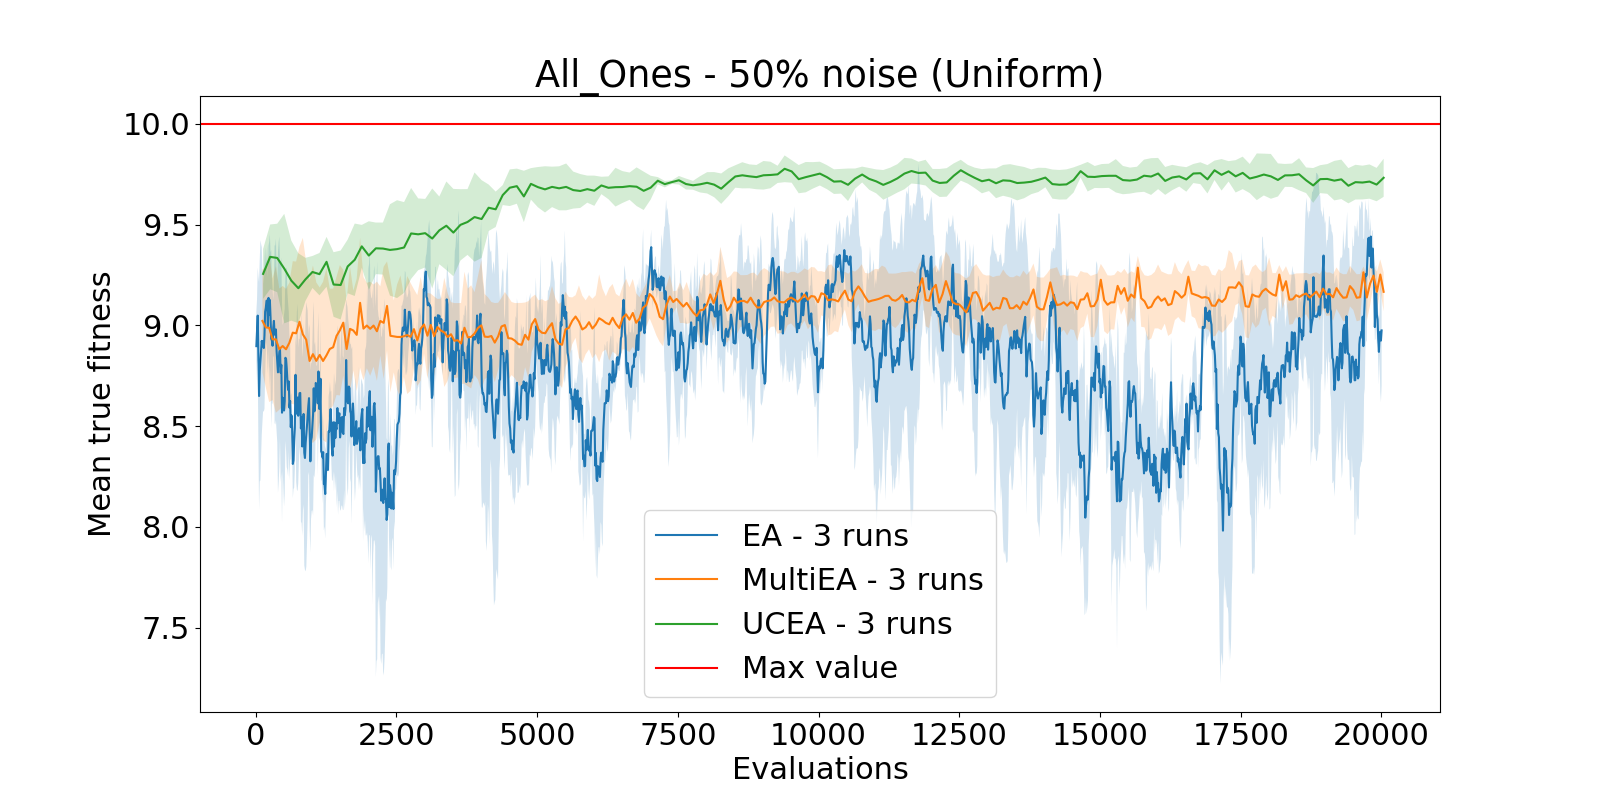
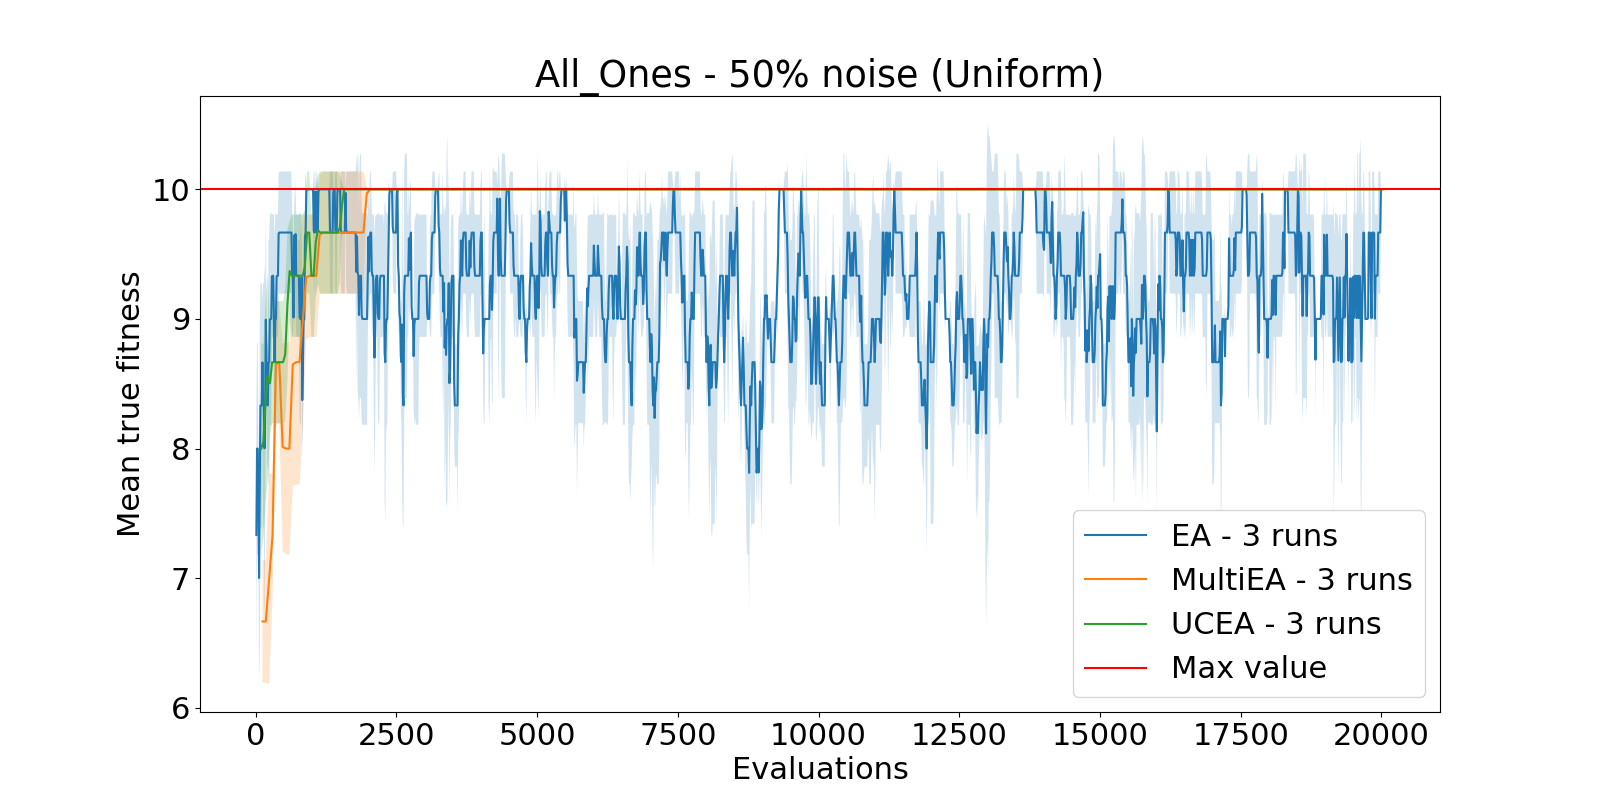
bug fix

diff --git a/src/run.py b/src/run.py
@@ -9,43 +9,25 @@ import pandas as pd
 import numpy as np
 import datetime
 
-def multi_run(algo, cfg, pb, gens, n, name=""):
+def multi_run(algo, cfg, server, n, name=""):
     X = [[] for _ in range(n)] # Evaluations
     Y = [[] for _ in range(n)] # Fitness
     for i in range(n):
-        ea = algo(cfg, pb)
+        ea = algo(cfg, server)
         # print(ea)
-        X[i], Y[i] = ea.run(gens, name=name)
-        ea.pop.plot()
+        X[i], Y[i] = ea.run(name=name)
+        # if isinstance(ea, UCEA):
+        #     ea.pop.plot()
     return X, Y
 
 
-def run_xp(basepb, 
-    gens=1000, 
-    normal_noise=False,
-    noise=0,
-    n_evals=1
-    ):
-    max_fit = basepb.max_fit
-    cfg = {
-        "n_pop":12,
-        "n_elites":6,
-        "n_genes":basepb.n_genes, 
-        "delta":0.1,
-        "scaling_factor":max_fit,
-        "epsilon":1,
-        "mut_size":0.3,
-        "max_eval":120,
-        "n_resampling":10,
-        "max_fit":max_fit,
-        "noise_level": noise
-    }
+def run_xp(server, args):
+    max_fit = server.pb.max_fit
+    # args to dict
+    cfg = args.__dict__
 
-    algos = [EA, MultiEA, UCEA]
-    noise_type='Normal' if normal_noise else 'Uniform'
-
-
-    pb = Noisy(basepb, noise=noise, normal=normal_noise)
+    algos = [ALGOS[i.lower()] for i in args.algos]
+    noise_type='Normal' if args.normal_noise else 'Uniform'
 
     gen_fitness = [[] for _ in algos]
     eval_fitness = [[] for _ in algos]
@@ -55,24 +37,24 @@ def run_xp(basepb,
 
     for algo in algos:
         a = algo.__name__
-        X, Y = multi_run(algo, cfg, pb, gens, n_evals, name=f'{algo.__name__} | {noise}')
-        path = f'saves/{noise_type}/Data_{a}_{basepb.name}_{int(noise*100)}'
+        X, Y = multi_run(algo, cfg, server, args.n_evals, name=f'{algo.__name__} | {args.noise}')
+        path = f'saves/{noise_type}/Data_{a}_{server.pb.name}_{int(args.noise*100)}'
         # add timestamp to path
         path += f'_{datetime.datetime.now().strftime("%Y-%m-%d_%H-%M-%S")}'
         save(X, Y, path)
         X, Y = load(path)
         results[a] = postprocessing(X, Y)
         
-    title = f"{basepb.name} - {int(noise*100)}% noise ({noise_type})"
+    title = f"{server.pb.name} - {int(args.noise*100)}% noise ({noise_type})"
     # Fitness = f(gen)
-    path = f"plots/{noise_type}/Gen_{basepb.name}_{int(noise*100)}.png"
-    # gen_graph(results, title=title, save=path, max_val=max_fit)
+    path = f"plots/{noise_type}/Gen_{server.pb.name}_{int(args.noise*100)}.png"
+    # gen_graph(results, title=title, save=path, max_val=args.max_fit)
 
     # Fitness = f(eval)
-    path = f"plots/{noise_type}/Eval_{basepb.name}_{int(noise*100)}.png"
-    eval_graph(results, title=title, save=path, max_val=max_fit)
+    path = f"plots/{noise_type}/Eval_{server.pb.name}_{int(args.noise*100)}.png"
+    eval_graph(results, title=title, save=path, max_val=args.max_fit)
 
     # Eval = f(gen)
-    path = f"plots/{noise_type}/Cost_{basepb.name}_{int(noise*100)}.png"
+    path = f"plots/{noise_type}/Cost_{server.pb.name}_{int(args.noise*100)}.png"
     # cost_graph(results, title=title, save=path)
 

diff --git a/run_xp.py b/run_xp.py
@@ -6,25 +6,45 @@ import argparse
 # Create args parser
 parser = argparse.ArgumentParser(description='Run EA on a given problem')
 parser.add_argument('--problem', type=str, default='all_ones', help='Problem to run')
-parser.add_argument('--gens', type=int, default=1000, help='Number of generations')
 parser.add_argument('--noise', type=float, default=0, help='Noise level')
 parser.add_argument('--normal_noise', default=False, help='Normal noise', action='store_true')
-parser.add_argument('--n', type=int, default=1, help='Number of evaluations')
+parser.add_argument('--n_pop', type=int, default=12, help='Number of agents')
+parser.add_argument('--n_elites', type=int, default=6, help='Number of elites')
+parser.add_argument('--mut_size', type=float, default=0.3, help='Mutation size')
+parser.add_argument('--max_eval', type=int, default=120, help='Max evaluations')
+parser.add_argument('--n_resampling', type=int, default=10, help='Number of resampling')
+# UCEA
+parser.add_argument('--delta', type=float, default=0.1, help='Delta')
+parser.add_argument('--scaling_factor', type=float, default=1, help='Scaling factor')
+parser.add_argument('--epsilon', type=float, default=1, help='Epsilon')
+
+# Runs
+parser.add_argument('--evals', type=int, dest="total_evals" ,default=1000, help='Number of generations')
+parser.add_argument('--n', dest="n_evals", type=int, default=1, help='Number of evaluations')
+
+# Add argument "algos" as list of values
+parser.add_argument('--algos', type=str, nargs='+', default=['ea', "rs", "ucea"], help='Algorithm to run') 
+
+
 
 if __name__ == "__main__":
     comm = MPI.COMM_WORLD
     rank = comm.Get_rank()
 
     args = parser.parse_args()
+    # flush(args)
     basepb = PROBLEMS[args.problem]()
+    pb = Noisy(basepb, noise=args.noise, normal=args.normal_noise)
 
-    print(args)
+    args.n_genes = pb.n_genes
+    args.max_fit = pb.max_fit
 
     if rank == 0:
-        flush("Main node - creating EA\n")
-        run_xp(basepb, args.gens, args.normal_noise, args.noise, args.n)
+        # flush("Main node - creating EA\n")
+        server = Server(pb)
+        run_xp(server, args)
+        server.stop()
     else:
-        flush(f"Creating node {rank}\n")
-        pb = Noisy(basepb, noise=args.noise, normal=args.normal_noise)
+        # flush(f"Creating node {rank}\n")
         client = Client(pb)
         client.run()

diff --git a/src/algos/ea.py b/src/algos/ea.py
@@ -5,10 +5,20 @@ import matplotlib.pyplot as plt
 from tqdm import tqdm
 from ..problems.mpi import *
 
+ALGOS = {}
+
+# register class as an algorithm
+def register_algo(name):
+    def wrapped(cls):
+        ALGOS[name] = cls
+        return cls
+    return wrapped
+
+@register_algo("ea")
 class EA:
-    def __init__(self, args, pb):
+    def __init__(self, args, server):
         self.args = args
-        self.server = Server(pb)
+        self.server = server
         self.pop = Population(args).random()
         self.total_evals = 0
         self.gen=0
@@ -68,12 +78,11 @@ class EA:
         self.gen += 1
         return self
     
-    def run(self, gens, name=""):
-        max_evals = 20000
-        pbar = tqdm(total=max_evals)
+    def run(self, name=""):
+        pbar = tqdm(total=self.args["total_evals"])
         pbar.set_description(name)
         X, Y = [], []
-        while self.total_evals < max_evals:
+        while self.total_evals < self.args["total_evals"]:
             self.step()
             f = np.max([np.mean(i.true_fitnesses) for i in self])
             pbar.update(self.total_evals - pbar.n)
@@ -82,6 +91,7 @@ class EA:
         pbar.close()
         return X, Y
 
+@register_algo("rs")
 class MultiEA(EA):
     def step(self):
         if self.gen > 0:

diff --git a/src/problems/problems.py b/src/problems/problems.py
@@ -132,6 +132,8 @@ class Noisy:
         self.pb = pb
         self.noise = noise
         self.max_fit=self.pb.max_fit
+        self.n_genes=self.pb.n_genes
+        self.name=self.pb.name
         self.normal=normal
 
     def __repr__(self):

diff --git a/src/problems/mpi.py b/src/problems/mpi.py
@@ -99,6 +99,8 @@ class Server(Client):
             }
             self.comm.send(d, dest=i)
             index += 1
+            if index == len(agents):
+                break
         
         self.waitings=self.waitings[index:]
 

diff --git a/src/algos/ucea.py b/src/algos/ucea.py
@@ -1,5 +1,6 @@
 from .ea import *
 
+@register_algo("ucea")
 class UCEA(EA):
     def __init__(self, args, pb):
         super().__init__(args, pb)
